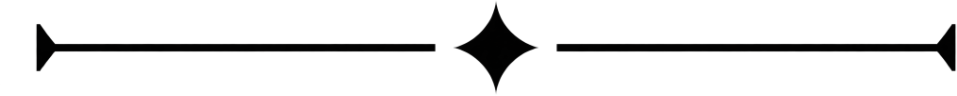
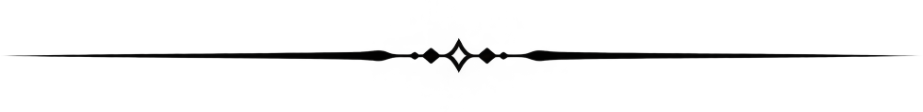
Replace ornamental divider with new tapered diamond design

Changed region(s): [[0.0, 0.0312, 1.0, 0.9375]]

diff --git a/templates/pages/home.html b/templates/pages/home.html
@@ -1499,13 +1499,13 @@
             </div>
 
             <!-- Divider under tagline and before content -->
-            <img src="{% static 'images/ornamental_divider.png' %}" alt="Divider" class="hero-ornament-divider">
+            <img src="{% static 'images/ornamental_divider.png' %}?v=20261014_new" alt="Divider" class="hero-ornament-divider">
 
             <!-- Subtitle content with increased font size -->
             <p class="hero-main-subtitle">PPAI celebrated its landmark Golden Jubilee (1972&ndash;2022), commemorating fifty years of continuous contributions to Indian agricultural science. Over the decades, the Association has evolved into a multidisciplinary body encompassing Agricultural Entomology, Plant Pathology, Nematology, Weed Science, Plant Biosecurity, and Pesticide Chemistry.</p>
 
             <!-- Divider after content -->
-            <img src="{% static 'images/ornamental_divider.png' %}" alt="Divider" class="hero-ornament-divider">
+            <img src="{% static 'images/ornamental_divider.png' %}?v=20261014_new" alt="Divider" class="hero-ornament-divider">
           </div>
 
           <!-- Right Column: Matching Upcoming Events Card (Exact Photo Layout) -->
